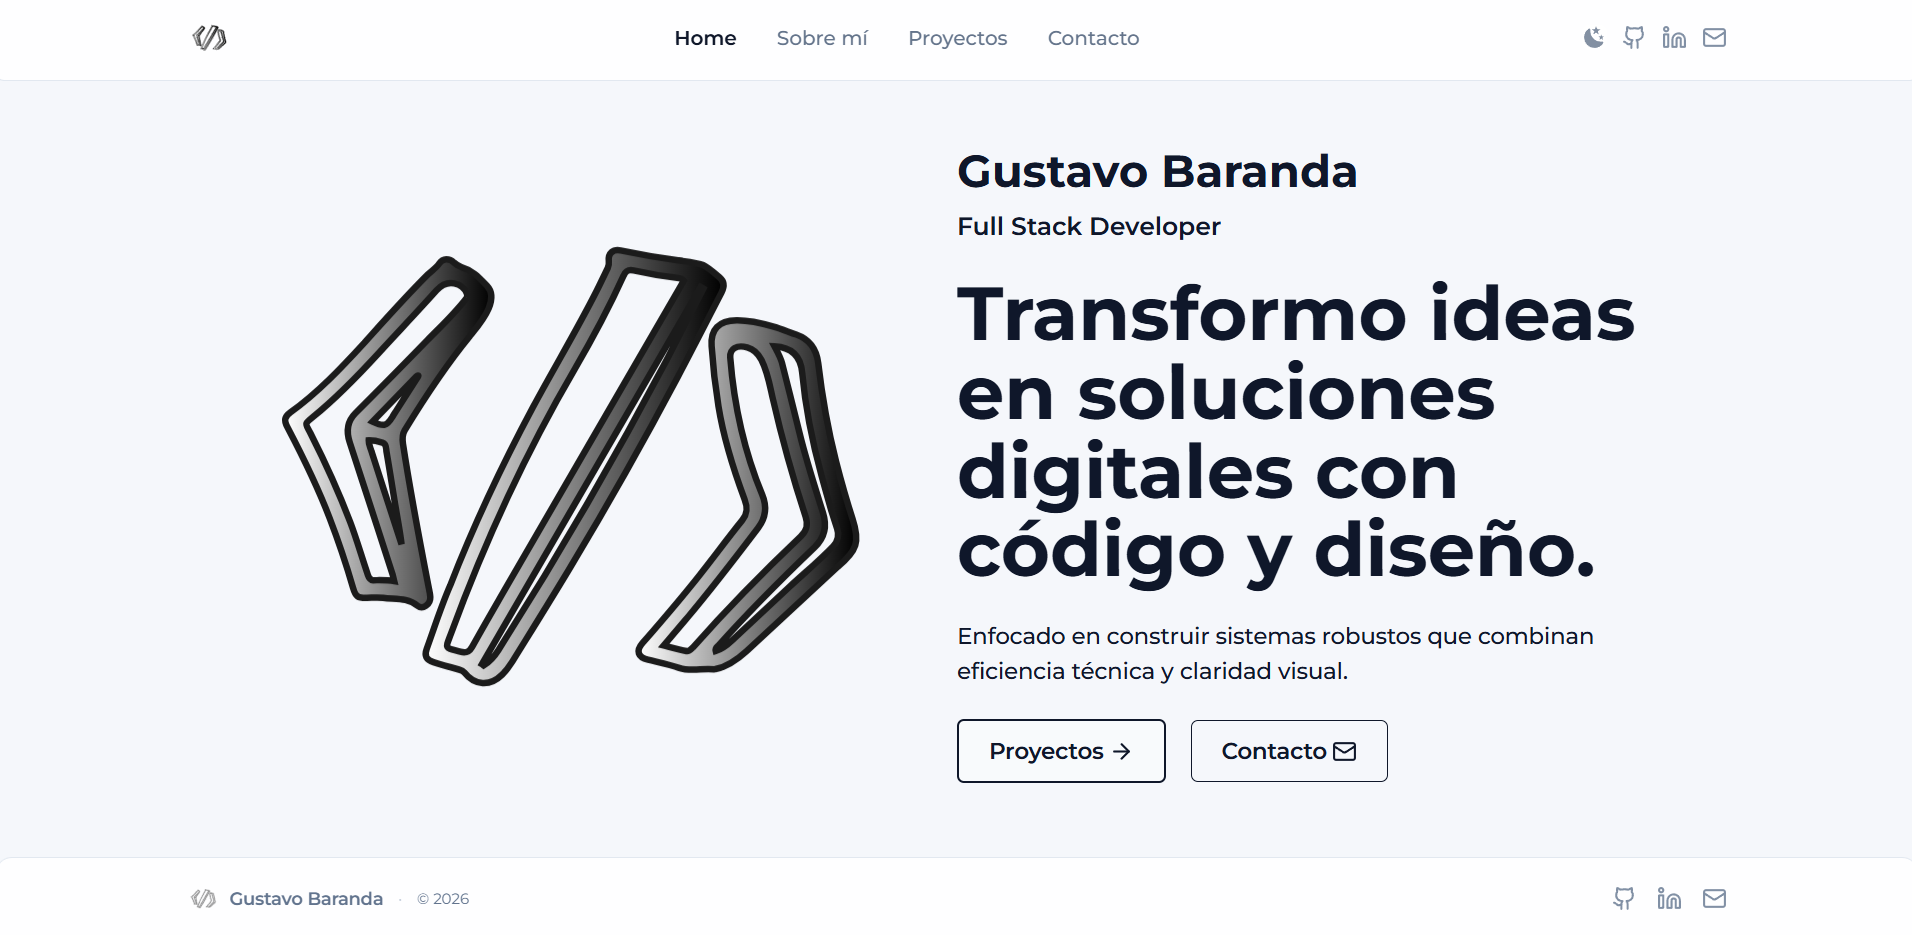
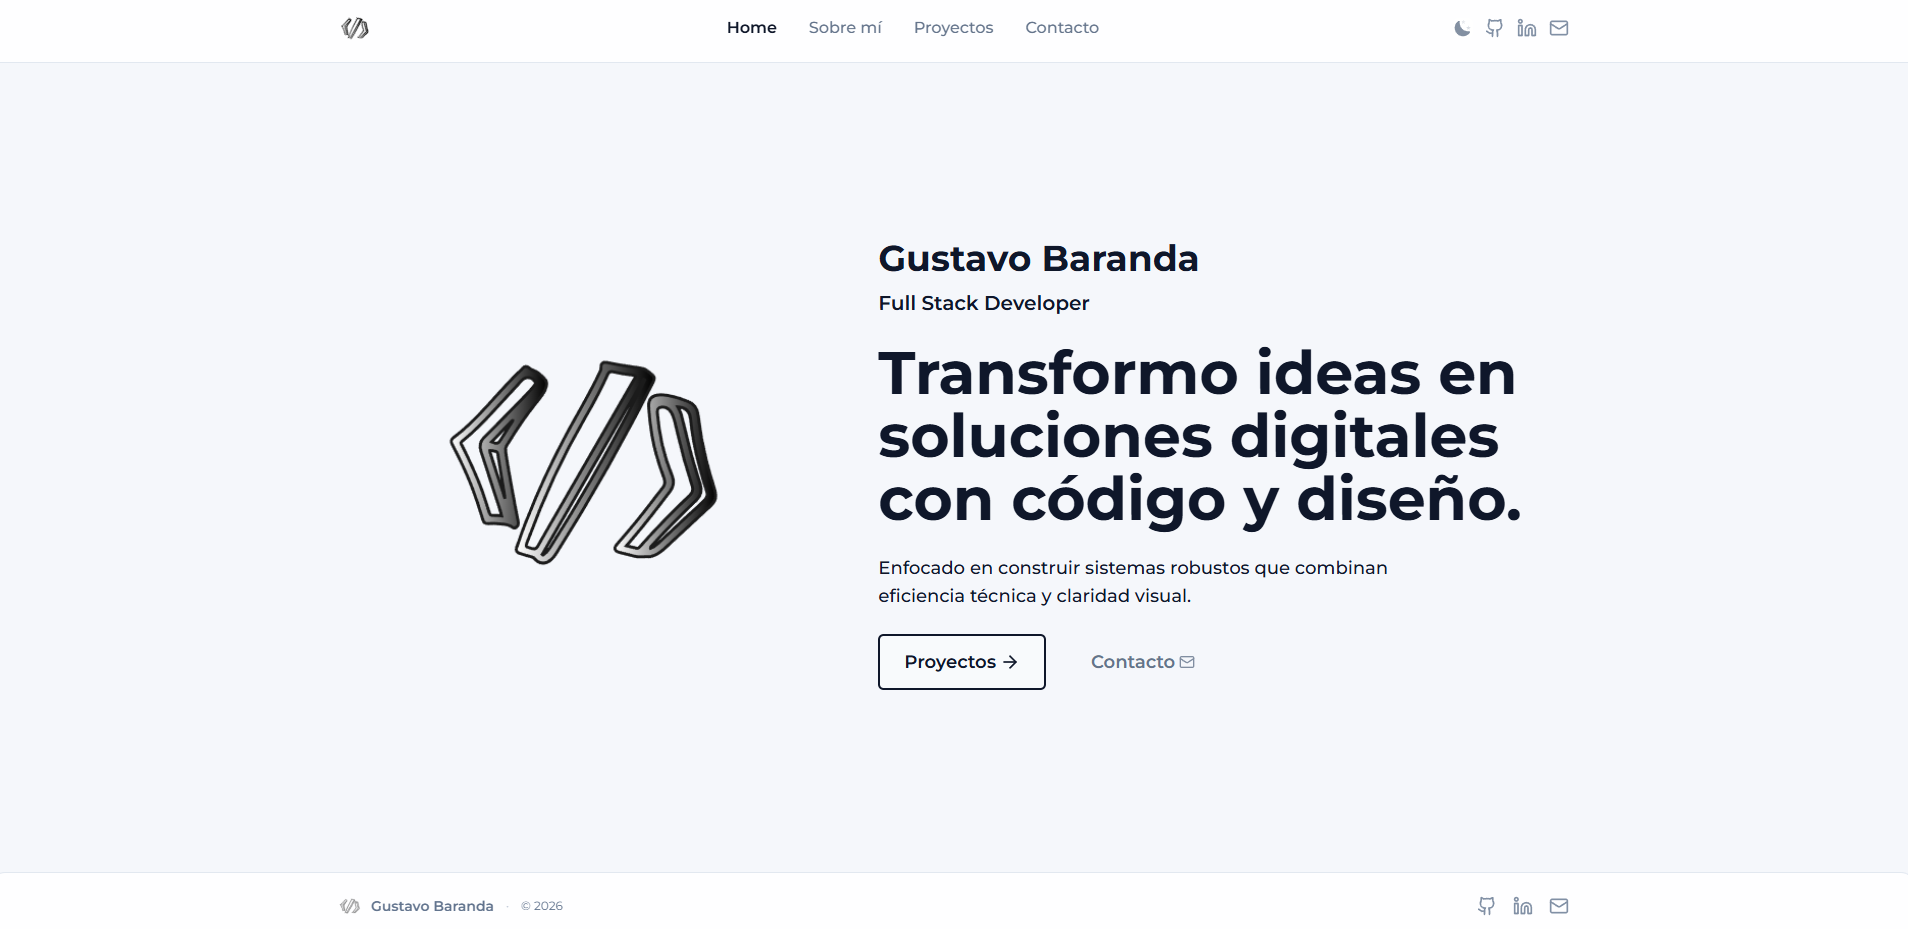
fix(mobile): remove drawer curve and prevent horizontal overflow
Drop the broken SVG edge morph that leaked scroll and visual artifacts, lock page scroll while the menu is open, and keep Contacto as a lightweight secondary action next to Proyectos.

diff --git a/src/components/header/index.tsx b/src/components/header/index.tsx
@@ -14,13 +14,39 @@ const Header: React.FC = () => {
   const [active, setActive] = useState<boolean>(false);
 
   useEffect(() => {
-    if (active) {
-      document.body.style.overflow = "hidden";
-    } else {
-      document.body.style.overflow = "";
-    }
+    const html = document.documentElement;
+    const body = document.body;
+
+    if (!active) return;
+
+    const scrollY = window.scrollY;
+    const prev = {
+      htmlOverflow: html.style.overflow,
+      bodyOverflow: body.style.overflow,
+      bodyOverflowX: body.style.overflowX,
+      bodyPosition: body.style.position,
+      bodyTop: body.style.top,
+      bodyWidth: body.style.width,
+      bodyPaddingRight: body.style.paddingRight,
+    };
+
+    // Lock page scroll while the drawer is open (prevents iOS/desktop x-scrollbars)
+    html.style.overflow = "hidden";
+    body.style.overflow = "hidden";
+    body.style.overflowX = "hidden";
+    body.style.position = "fixed";
+    body.style.top = `-${scrollY}px`;
+    body.style.width = "100%";
+
     return () => {
-      document.body.style.overflow = "";
+      html.style.overflow = prev.htmlOverflow;
+      body.style.overflow = prev.bodyOverflow;
+      body.style.overflowX = prev.bodyOverflowX;
+      body.style.position = prev.bodyPosition;
+      body.style.top = prev.bodyTop;
+      body.style.width = prev.bodyWidth;
+      body.style.paddingRight = prev.bodyPaddingRight;
+      window.scrollTo(0, scrollY);
     };
   }, [active]);
 

diff --git a/src/app/globals.css b/src/app/globals.css
@@ -41,6 +41,11 @@ body {
 	color: var(--text);
 	scrollbar-width: thin;
 	scrollbar-color: var(--scrollbar-thumb) var(--scrollbar-track);
+	overflow-x: clip;
+}
+
+html {
+	overflow-x: clip;
 }
 
 body::-webkit-scrollbar {
@@ -157,24 +162,30 @@ body::-webkit-scrollbar-thumb {
 	width: min(280px, 100%);
 	background-color: var(--surface);
 	border-left: 1px solid var(--border);
-	box-shadow: -10px 0 40px rgba(2, 6, 23, 0.4);
+	box-shadow: -12px 0 32px rgba(2, 6, 23, 0.18);
 	color: var(--text);
 	position: fixed;
 	top: 0;
 	right: 0;
 	z-index: 60;
-	overflow-y: auto;
+	overflow: hidden;
 }
 
 .menu .body {
 	box-sizing: border-box;
 	padding: 0 1.5rem max(1.25rem, env(safe-area-inset-bottom)) 1.5rem;
+	height: 100%;
 	min-height: 100%;
+	max-height: 100%;
 	display: flex;
 	flex-direction: column;
 	justify-content: flex-start;
 	position: relative;
 	z-index: 50;
+	overflow-x: hidden;
+	overflow-y: auto;
+	scrollbar-width: thin;
+	overscroll-behavior: contain;
 }
 
 .menu .body .nav {
@@ -284,16 +295,6 @@ body::-webkit-scrollbar-thumb {
 .link-active .link-label {
 	color: var(--text);
 	font-weight: 600;
-}
-
-.svgCurve {
-	position: absolute;
-	top: 0;
-	left: -320px;
-	width: 360px;
-	height: 100%;
-	fill: var(--surface);
-	z-index: 45;
 }
 
 .hero-title {

diff --git a/src/components/header/BurgerMenuMobile.tsx b/src/components/header/BurgerMenuMobile.tsx
@@ -6,7 +6,6 @@ import Link from "next/link";
 import Image from "next/image";
 import { menuSlide, slide } from "./Animation";
 import ItemNavigationMobile from "./ItemNavigationMobile";
-import SvgCurve from "./SvgCurve";
 import { NavigationNavBar } from "./ItemNavigation";
 import ThemeToggle from "@/components/common/ThemeToggle";
 import SocialLinks from "@/components/common/SocialLinks";
@@ -44,7 +43,6 @@ const BurgerMenuMobile: React.FC<BurgerMenuMobileProps> = ({ updateMenu }) => {
       exit="exit"
       className="menu"
     >
-      <SvgCurve />
       <div className="body">
         <div className="nav">
           <Link href="/" onClick={updateMenu}>
@@ -71,7 +69,7 @@ const BurgerMenuMobile: React.FC<BurgerMenuMobileProps> = ({ updateMenu }) => {
         <motion.div
           {...slideMotionProps}
           custom={footerStartIndex}
-          className="footer border-t border-soft pt-5 pb-3 flex-shrink-0 flex flex-col items-center gap-4"
+          className="footer border-t border-soft pt-5 pb-3 shrink-0 flex flex-col items-center gap-4"
         >
           <div className="flex items-center gap-2.5">
             <Link

diff --git a/src/app/page.tsx b/src/app/page.tsx
@@ -21,7 +21,7 @@ export default function HomePage() {
         <div className="pt-2 pb-8 md:pt-0 md:pb-0 w-full">
           <div className="flex flex-col md:flex-row items-center justify-between gap-5 md:gap-12 w-full">
             <div className="w-full md:w-5/12 flex justify-center items-center">
-              <div className="w-full max-w-[240px] sm:max-w-[260px] md:max-w-[320px] lg:max-w-[350px] mx-auto">
+              <div className="w-full max-w-60 sm:max-w-65 md:max-w-80 lg:max-w-87.5 mx-auto">
                 <TiltImage
                   src="/images/logo.svg"
                   alt="Logo Gustavo Baranda"
@@ -90,9 +90,10 @@ export default function HomePage() {
                       initial: { opacity: 0, x: 0, y: 8 },
                       transition: { duration: 0.5, ease: "easeOut", delay: 0.25 },
                     }}
+                    className="px-3 font-medium"
                   >
                     Contacto
-                    <Mail className="h-5 w-5" />
+                    <Mail className="h-4 w-4 opacity-80" />
                   </FillButton>
                 </div>
               </div>

diff --git a/src/components/header/Animation.ts b/src/components/header/Animation.ts
@@ -1,9 +1,15 @@
 import { Variants } from "framer-motion";
 
 export const menuSlide: Variants = {
-  initial: { x: "calc(100% + 100px)" },
-  enter: { x: "0", transition: { duration: 0.8, ease: [0.76, 0, 0.24, 1] } },
-  exit: { x: "calc(100% + 100px)", transition: { duration: 0.8, ease: [0.76, 0, 0.24, 1] } },
+  initial: { x: "100%" },
+  enter: {
+    x: "0%",
+    transition: { duration: 0.8, ease: [0.76, 0, 0.24, 1] },
+  },
+  exit: {
+    x: "100%",
+    transition: { duration: 0.8, ease: [0.76, 0, 0.24, 1] },
+  },
 };
 
 export const slide: Variants = {

diff --git a/src/components/hero/fill-button.tsx b/src/components/hero/fill-button.tsx
@@ -114,11 +114,13 @@ export function FillButton({
     `;
 
   const ghostStyles = `
-    text-[var(--text)]
-    dark:hover:text-[var(--muted)]
+    text-[var(--muted)]
+    bg-transparent
+    border border-transparent
+    hover:text-[var(--text)]
+    hover:bg-transparent
     focus-visible:text-[var(--accent)]
-    border
-    hover:border-gray-400
+    focus-visible:border-transparent
   `;
 
   const defaultMotion: MotionProps = {
